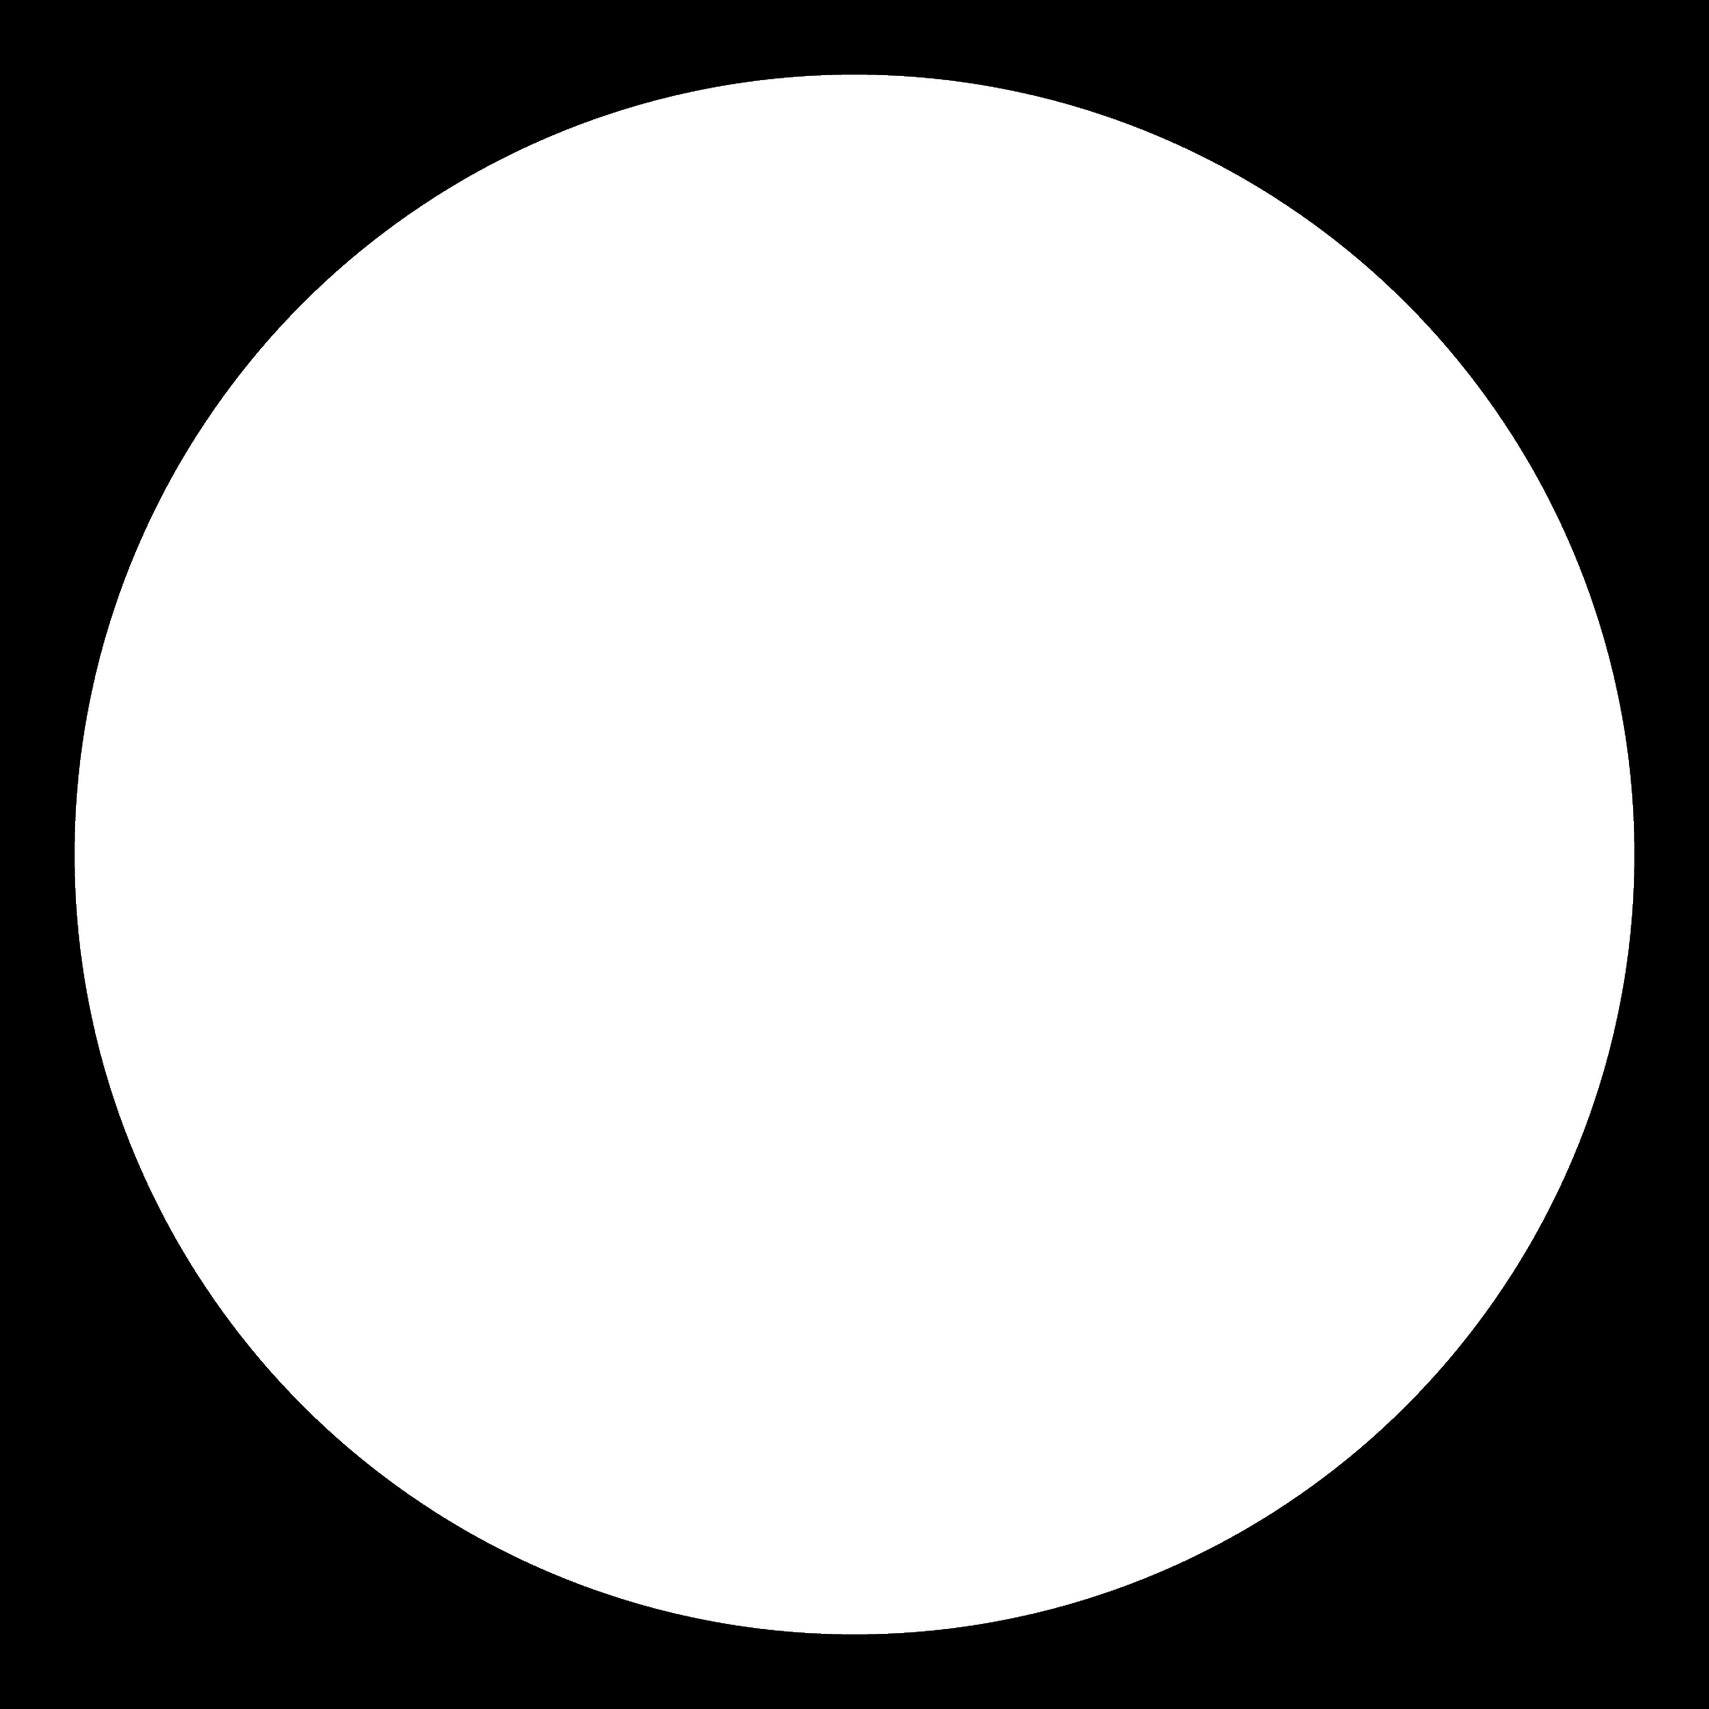
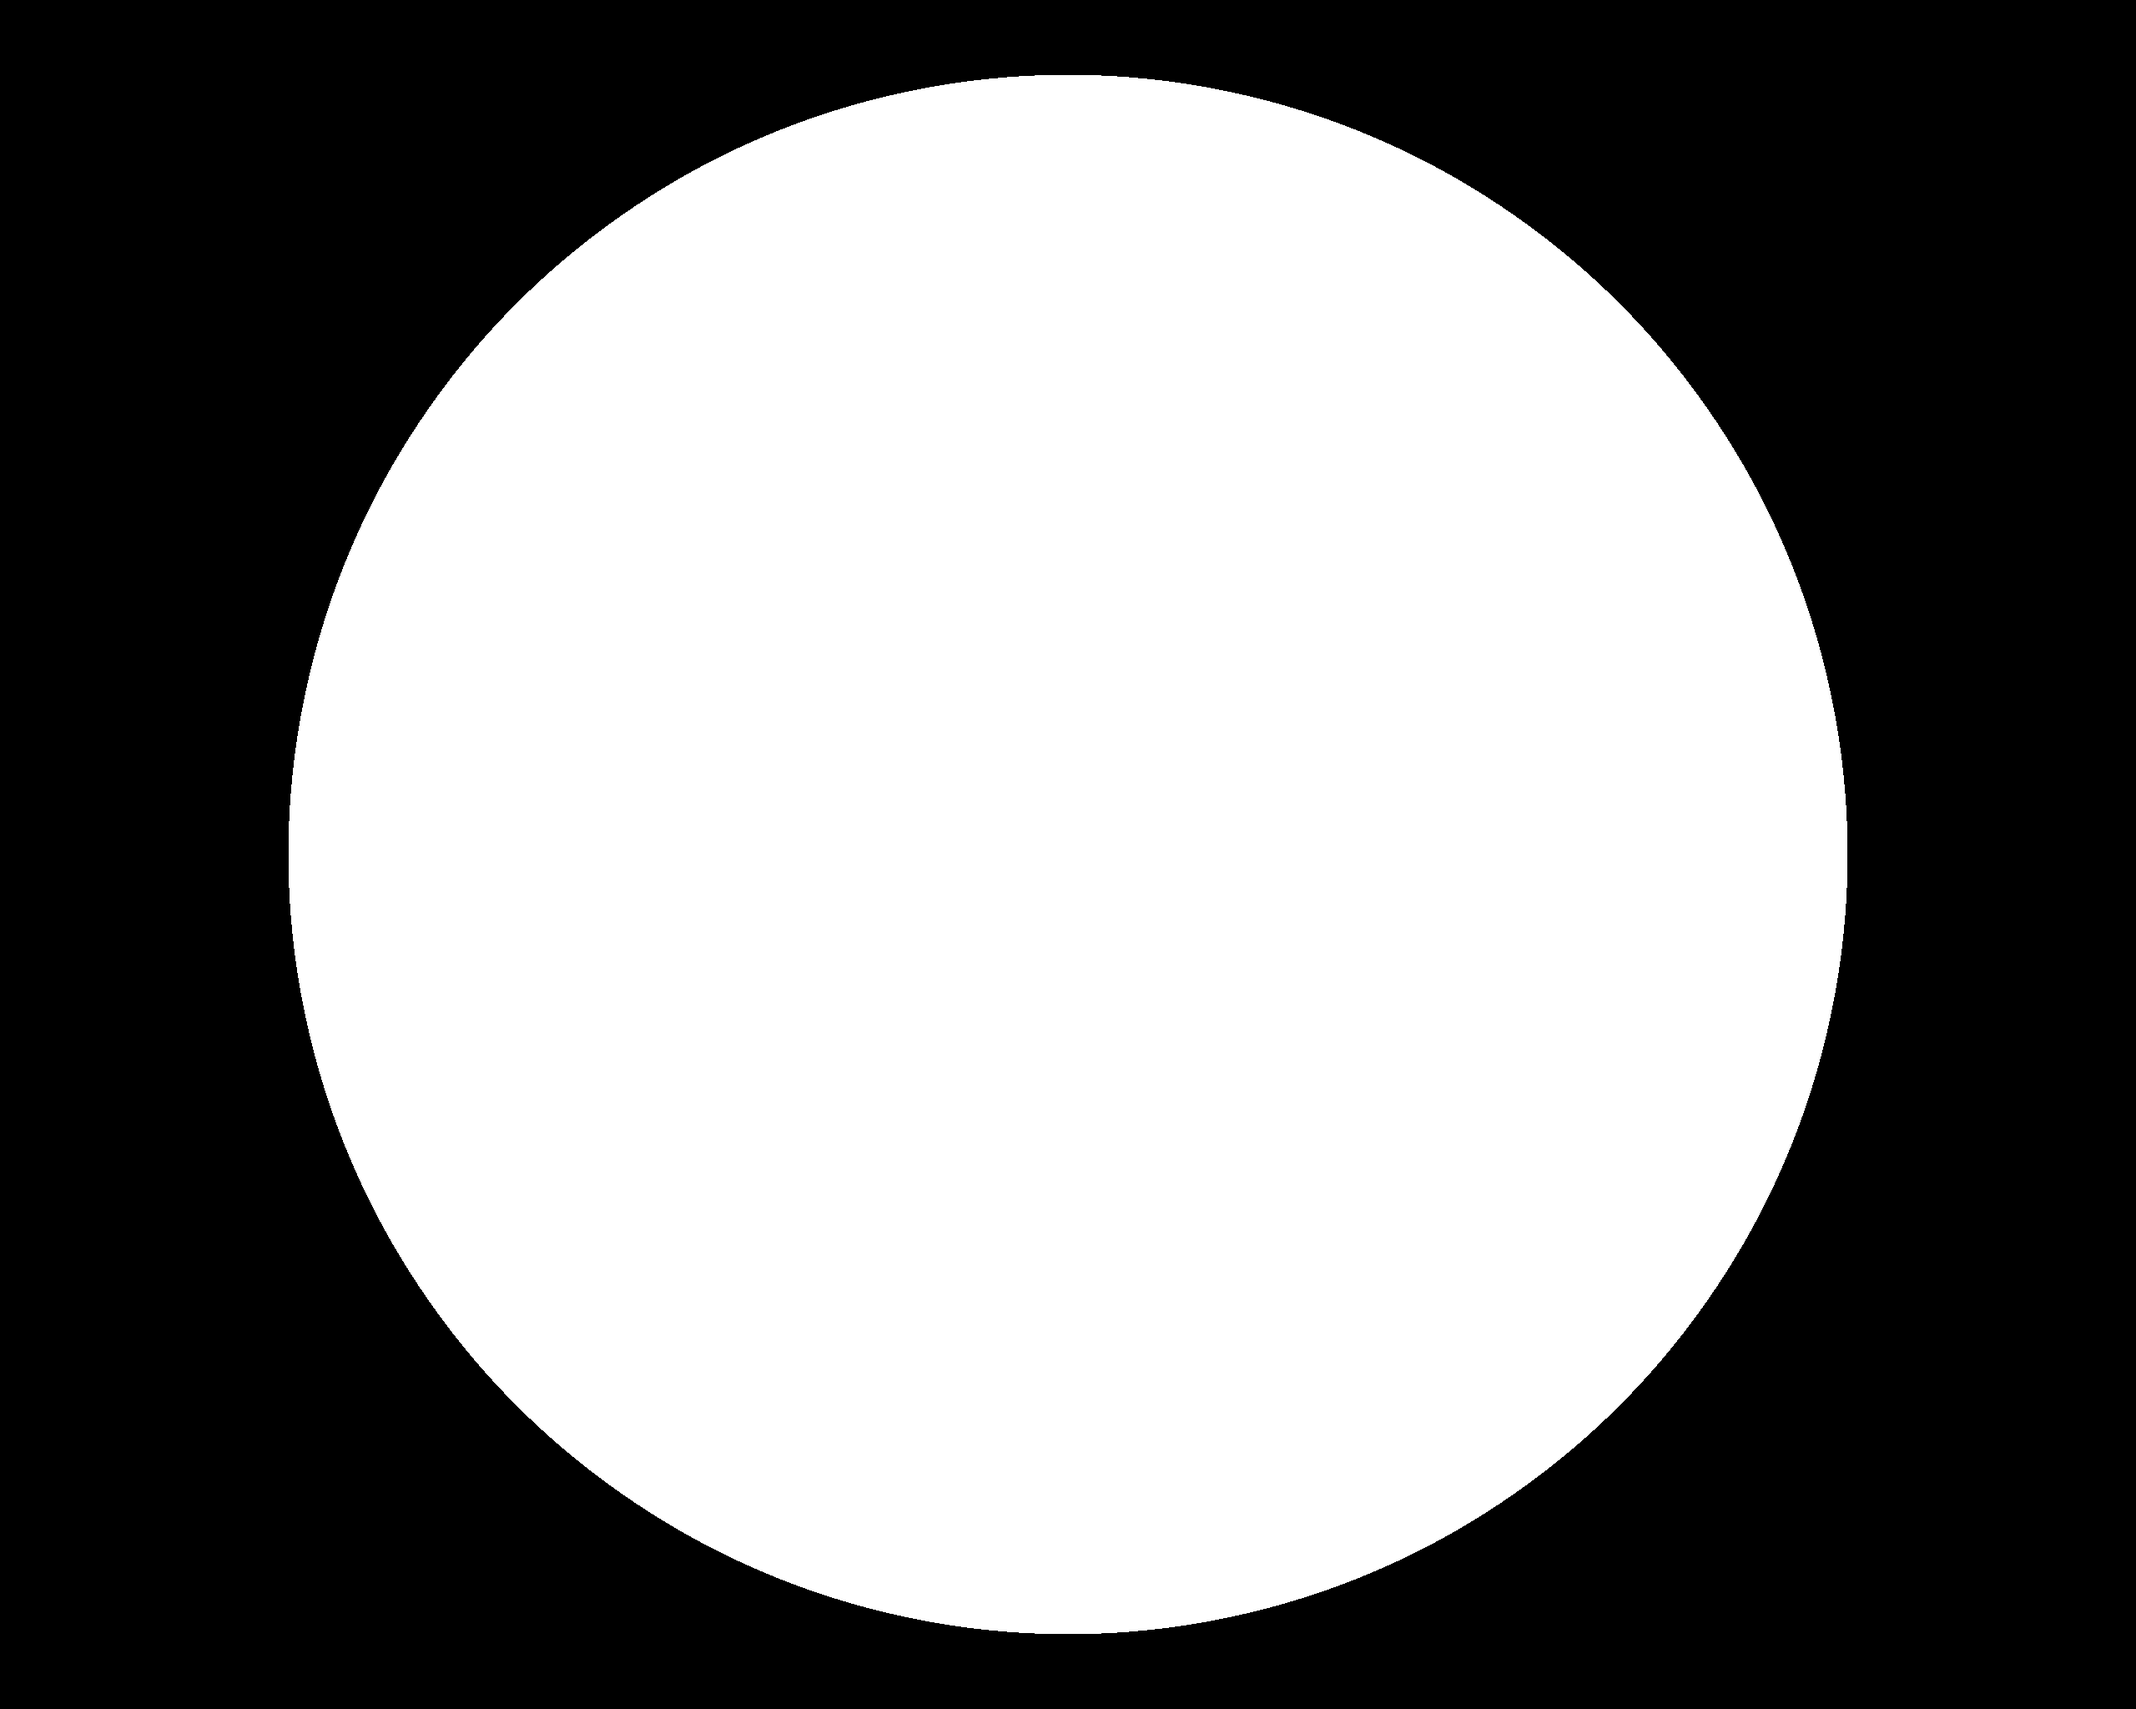
fixed hold note segment
Minor changes (non breaking)
fixed hold note segment

diff --git a/assets/sim.py b/assets/sim.py
@@ -93,13 +93,14 @@ class SongPlayer():
         self.chartpos = self.chartimg.get_rect(center = self.display.get_rect().center) 
         #chartendimg is used to hide the note when it reaches outside
         self.chartendimg = pygame.image.load("assets/images/chart-end.png").convert_alpha()
-        self.chartendimg = pygame.transform.scale(self.chartendimg,(monitorHeight,monitorHeight))
+        self.chartendimg = pygame.transform.scale(self.chartendimg,(monitorHeight*1.25,monitorHeight))
+        self.chartendpos = self.chartendimg.get_rect(center = self.display.get_rect().center) 
     def updateHolds(self):
         for note in self.activebuffer:
             if note.name ==  'HoldNote':
                 note.elapsedDuration += 1 
                 note.sprite[2].elapsedDuration += 1 
-                if int(note.elapsedDuration) == int(note.holdDuration):
+                if int(note.elapsedDuration) >= int(note.holdDuration)-1:
 
                     
                     note.sprite[1].locked = False
@@ -113,6 +114,7 @@ class SongPlayer():
         bar = 0
         self.activebuffer = []
         holdbuffer = []
+        actualms = 0
         offset = 0
         # seperate loop that runs every 1/16th of a beat
         # higher accuracy may be needed later on 
@@ -184,8 +186,8 @@ class SongPlayer():
                         #     note.tailSprite.locked = True
 
                 # if game is inconsistant, check actualms to compare the actual milisecond time plaused and compare to the tpb
-                actualms = pygame.time.delay(tpb)
-                print(actualms - tpb, "timing difference")
+                actualms = clock.tick(int((1000/tpb)))
+                # print(actualms - tpb, "timing difference")
 
                 # since each loop cycle is 1/16th of the beat, incrument 1/16
                 currentbarfraction += 1/16
@@ -267,16 +269,20 @@ class SongPlayer():
                         elif spriteindex == 1 and math.sqrt((pos[0] - self.center[0] + img.get_rect().centerx)**2 + (pos[1] - self.center[1] + img.get_rect().centery)**2) > self.radiusConst * 1.2:
                             self.activebuffer.remove(note) #if tail has passed judgement, delete hold from memoery
                     elif spriteindex == 2: #same deal here but for segments so for loop must be implemented
-                        
+                        pos = note.sprite[1].pos
                         for segment in img:
+                            segmentpos = segment[1]
+                            if math.sqrt((segmentpos[0] - self.center[0] + segment[0].get_rect().centerx)**2 + (segmentpos[1] - self.center[1] + segment[0].get_rect().centery)**2) > self.radiusConst * 1.2:
+                                continue
                             if not math.sqrt((pos[0] - self.center[0] + segment[0].get_rect().centerx)**2 + (pos[1] - self.center[1] + segment[0].get_rect().centery)**2) > self.radiusConst * 1.2:
                                 self.display.blit(segment[0], segment[1])
-                            else:
-                                img.remove(segment)
+
+                            
+                            
                         
                     elif math.sqrt((pos[0] - self.center[0] + img.get_rect().centerx)**2 + (pos[1] - self.center[1] + img.get_rect().centery)**2) > self.radiusConst * 1.2 :
                         if note.name == "TapNote":
-                            #judgementtext = judgement.render('Miss', False, (255,255,255))
+                            judgementtext = judgement.render('Miss', False, (255,255,255))
                             self.activebuffer.remove(note)
                             # self.display.blit(judgementtext, ((0.5*w )- (judgementtext.get_rect().centerx), 0.5*h - judgementtext.get_rect().centery))
                             # print('Miss')
@@ -292,7 +298,7 @@ class SongPlayer():
                 
             
             # display notes in between
-            self.display.blit(self.chartendimg, self.chartpos)
+            self.display.blit(self.chartendimg, self.chartendpos)
             
             for event in pygame.event.get():
                 if event.type == pygame.QUIT:

diff --git a/assets/gui.py b/assets/gui.py
@@ -114,7 +114,7 @@ class MainGUI:
                 
         path=f'./tmp/'+song.path[:-11]
         # print(path)
-        c = sim.SongPlayer(path,self.display,6.5 ,self.diffcuilty)
+        c = sim.SongPlayer(path,self.display,2 ,self.diffcuilty)
         c.play()
     def animate_in(self, img):
         display_size = pygame.display.Info().current_w , pygame.display.Info().current_h
@@ -296,7 +296,7 @@ class MainGUI:
             self.display.blit(self.textsurface, ((0.5*w )- (self.textsurface.get_rect().centerx), 0.30*h - self.textsurface.get_rect().centery))
             if self.currentselection < 0:
                 self.currentselection = 0
-            self.nextgenreindex = 0
+            # self.nextgenreindex = 0
             if self.currentselection > self.nextgenreindex-self.genreoffset:
                 self.currentselection = self.oldselection
             if self.oldselection != self.currentselection:
@@ -412,7 +412,7 @@ class MainGUI:
             if 2 in pressedlist:
                 if self.buttonlock[2] == 0:
                     self.currentselection += 1
-                    # print(self.currentselection)
+                    print(self.currentselection)
                 self.buttonlock[2] += 1
             elif self.buttonlock[2] >= 1:
                 self.buttonlock[2] = 0
@@ -420,7 +420,7 @@ class MainGUI:
             if 5 in pressedlist:
                 if self.buttonlock[5] == 0:
                     self.currentselection -= 1
-                    # print(self.currentselection)
+                    print(self.currentselection)
                 self.buttonlock[5] += 1
             elif self.buttonlock[5] >= 1:
                 self.buttonlock[5] = 0

diff --git a/assets/loader.py b/assets/loader.py
@@ -250,7 +250,7 @@ class HoldNote(Note):
 
         self.holdDuration = self.timeSig/4 * 4/self.divider * self.duration * 16 #duration is in 1/16th per-comma length (per-comma length is basically a quarter note unit) or whatever the defined unit is
         self.tailSprite = None #tail of hold note
-        self.elapsedDuration = 0 #in 1/16th of notes
+        self.elapsedDuration = 1 #in 1/16th of notes
         self.bodySprite = None
         self.sprite = [self.headSprite, self.tailSprite, self.bodySprite]
         self.issegment = False

diff --git a/main.py b/main.py
@@ -45,10 +45,13 @@ def check_memory():
     usage = psutil.Process().memory_info().rss / (1024 * 1024)
     logging.debug(f'Currently using {usage} MB of memory')
 
+
 def debug():
     while True:
         check_memory()
         time.sleep(5)
+    
+
 def get_size(bytes, suffix="B"):
     """
     Scale bytes to its proper format
